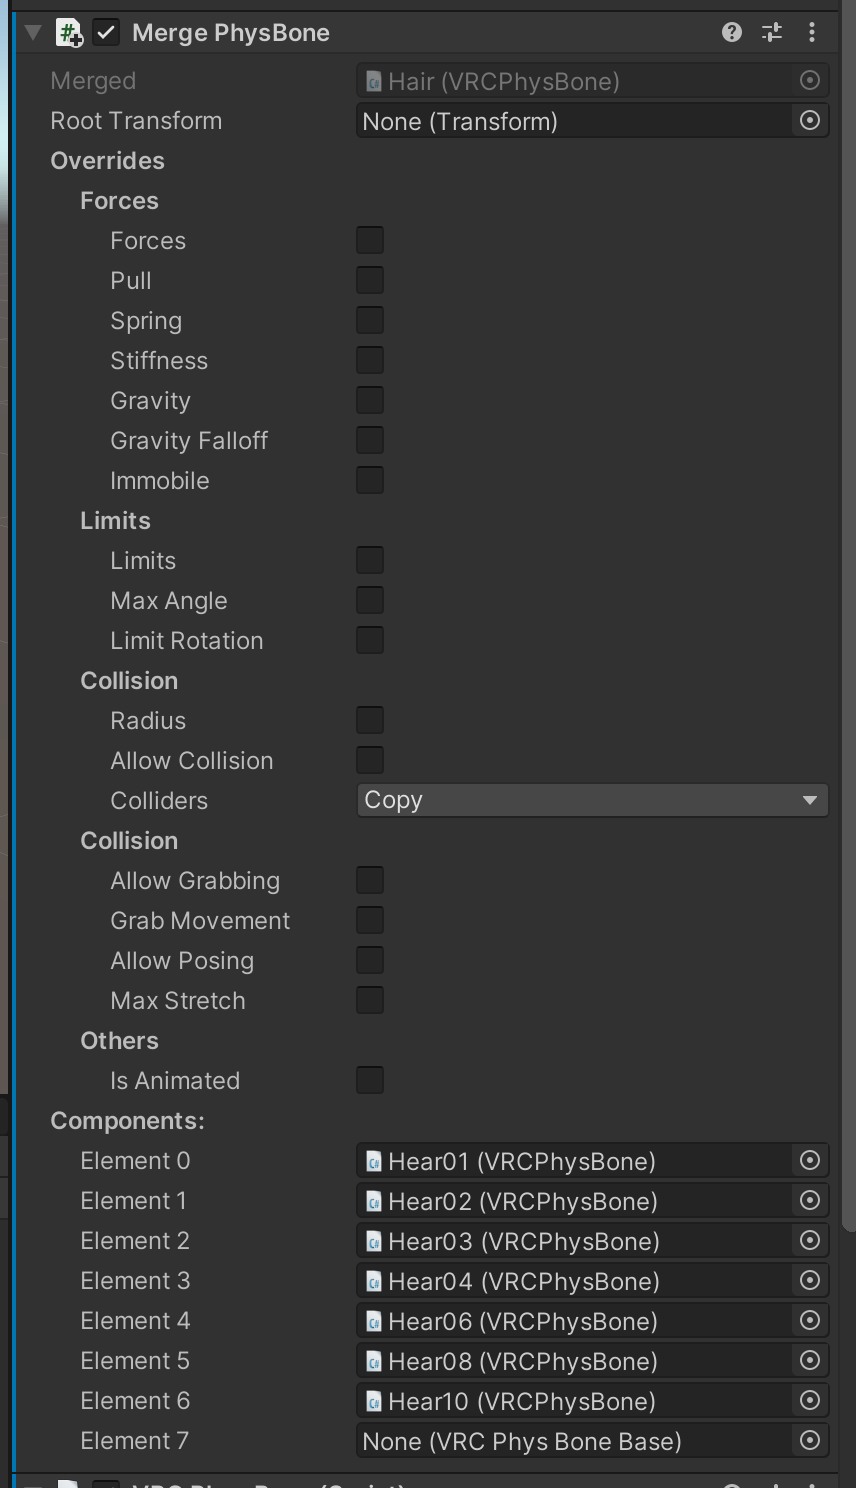
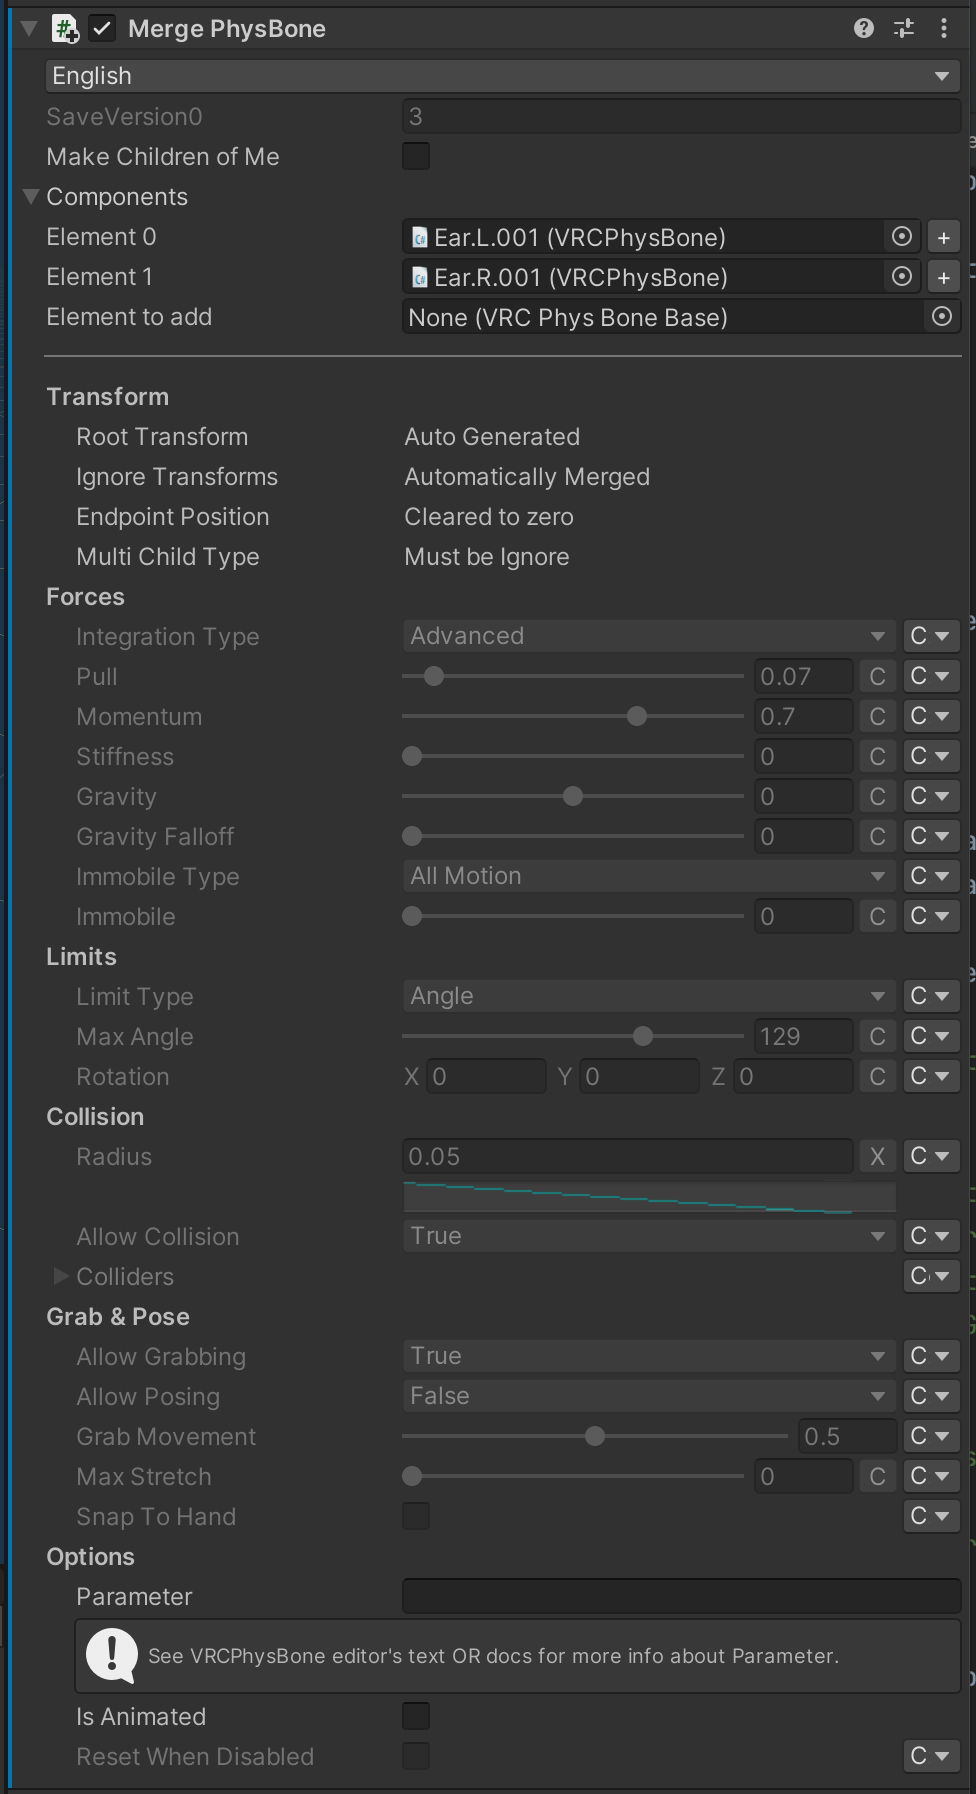
docs(readme): update about Merge PhysBone

diff --git a/README.md b/README.md
@@ -101,69 +101,26 @@ Check Merge to merge those MaterialSlots (SubMeshes) into one MaterialSlot. This
 
 This component merges multiple PhysBone Components into one Component with MultiChildType == Ignore.
 
-#### Settings
-
-<img src="./.readme/merge-physbone.png" width="428">
-
-##### Root Transform
-
-The RootComponent the VRCPhysBone will be applyed to.
-If this is set, all GameObjects on the path to VRCPhysBone Component will be disabled via multi child and Ignore Transforms.
-If this is not set, parent GameObject of all VRCPhysBone components must be same & one GameObject for Root Transform will be generated.
-
-If RootTransform is set
-```
-GameObject1 - The RootTransform
- +- GameObject2
- |   +- GameObject3
- |   |   +- GameObject4 - The PhysBone will be merged
- |   |   |   `- Children
- |   |   `- _dummy - the GameObject will be generated for MultiChildType == Ignore
- |   `- _dummy - the GameObject will be generated for MultiChildType == Ignore
- +- GameObject5 - The PhysBone will be merged
- |   `- Children
- `- GameObhect6 - This GameObject will be added to Ignore Transforms
-     `- Children
- There's no _dummy for GameObject1 because there's multiple PhysBone targets
-```
-
-If RootTransform is not set, This GameObject Graph 
-```
-GameObject1
- +- GameObject2 - The PhysBone will be merged
- |   `- Children
- +- GameObject3 - The PhysBone will be merged
- |   `- Children
- `- GameObhect4
-     `- Children
-```
-
-Will Transformed to the following
-```
-GameObject1 - RootTransform is set
- +- GameObhect4
- |   `- Children
- `- PhysBoneRoot - The Root Transform added by MergePhysBone
-     +- GameObject2 - The PhysBone will be merged
-     |   `- Children
-     `- GameObject3 - The PhysBone will be merged
-         `- Children
-```
-
 In addition, Endpoint Position will be replaced to zero and `_EndPhysBone` GameObject will be added.
 This operation is same as [Clear Endpoint Position](#clear-endpoint-position).
 
-##### Overrides
+#### Settings
 
-The list of properties to be merged.
-If you check some of this, the value of Merged Component will be used.
-If not checked, MergePhysBone will check all PhysBone Components have same value and the value will be used.
+<img src="./.readme/merge-physbone.png" width="488">
 
 ##### Components
 
 The list of PhysBone Component.
 
 Drop to None element at the bottom to add renderer and reset to None to remove from the list.
+
+##### Overrides
+
+Below the configurations, there's configurations like VRCPhysBone.
+For each property, you may select `Copy` to copy value from source property 
+(only available if values from the sources are same) or `Override` to set new value instead.
+
+For colliders, you can select `Merge` to merge colliders array from source physbones.
 
 ### Freeze BlendShape
 
